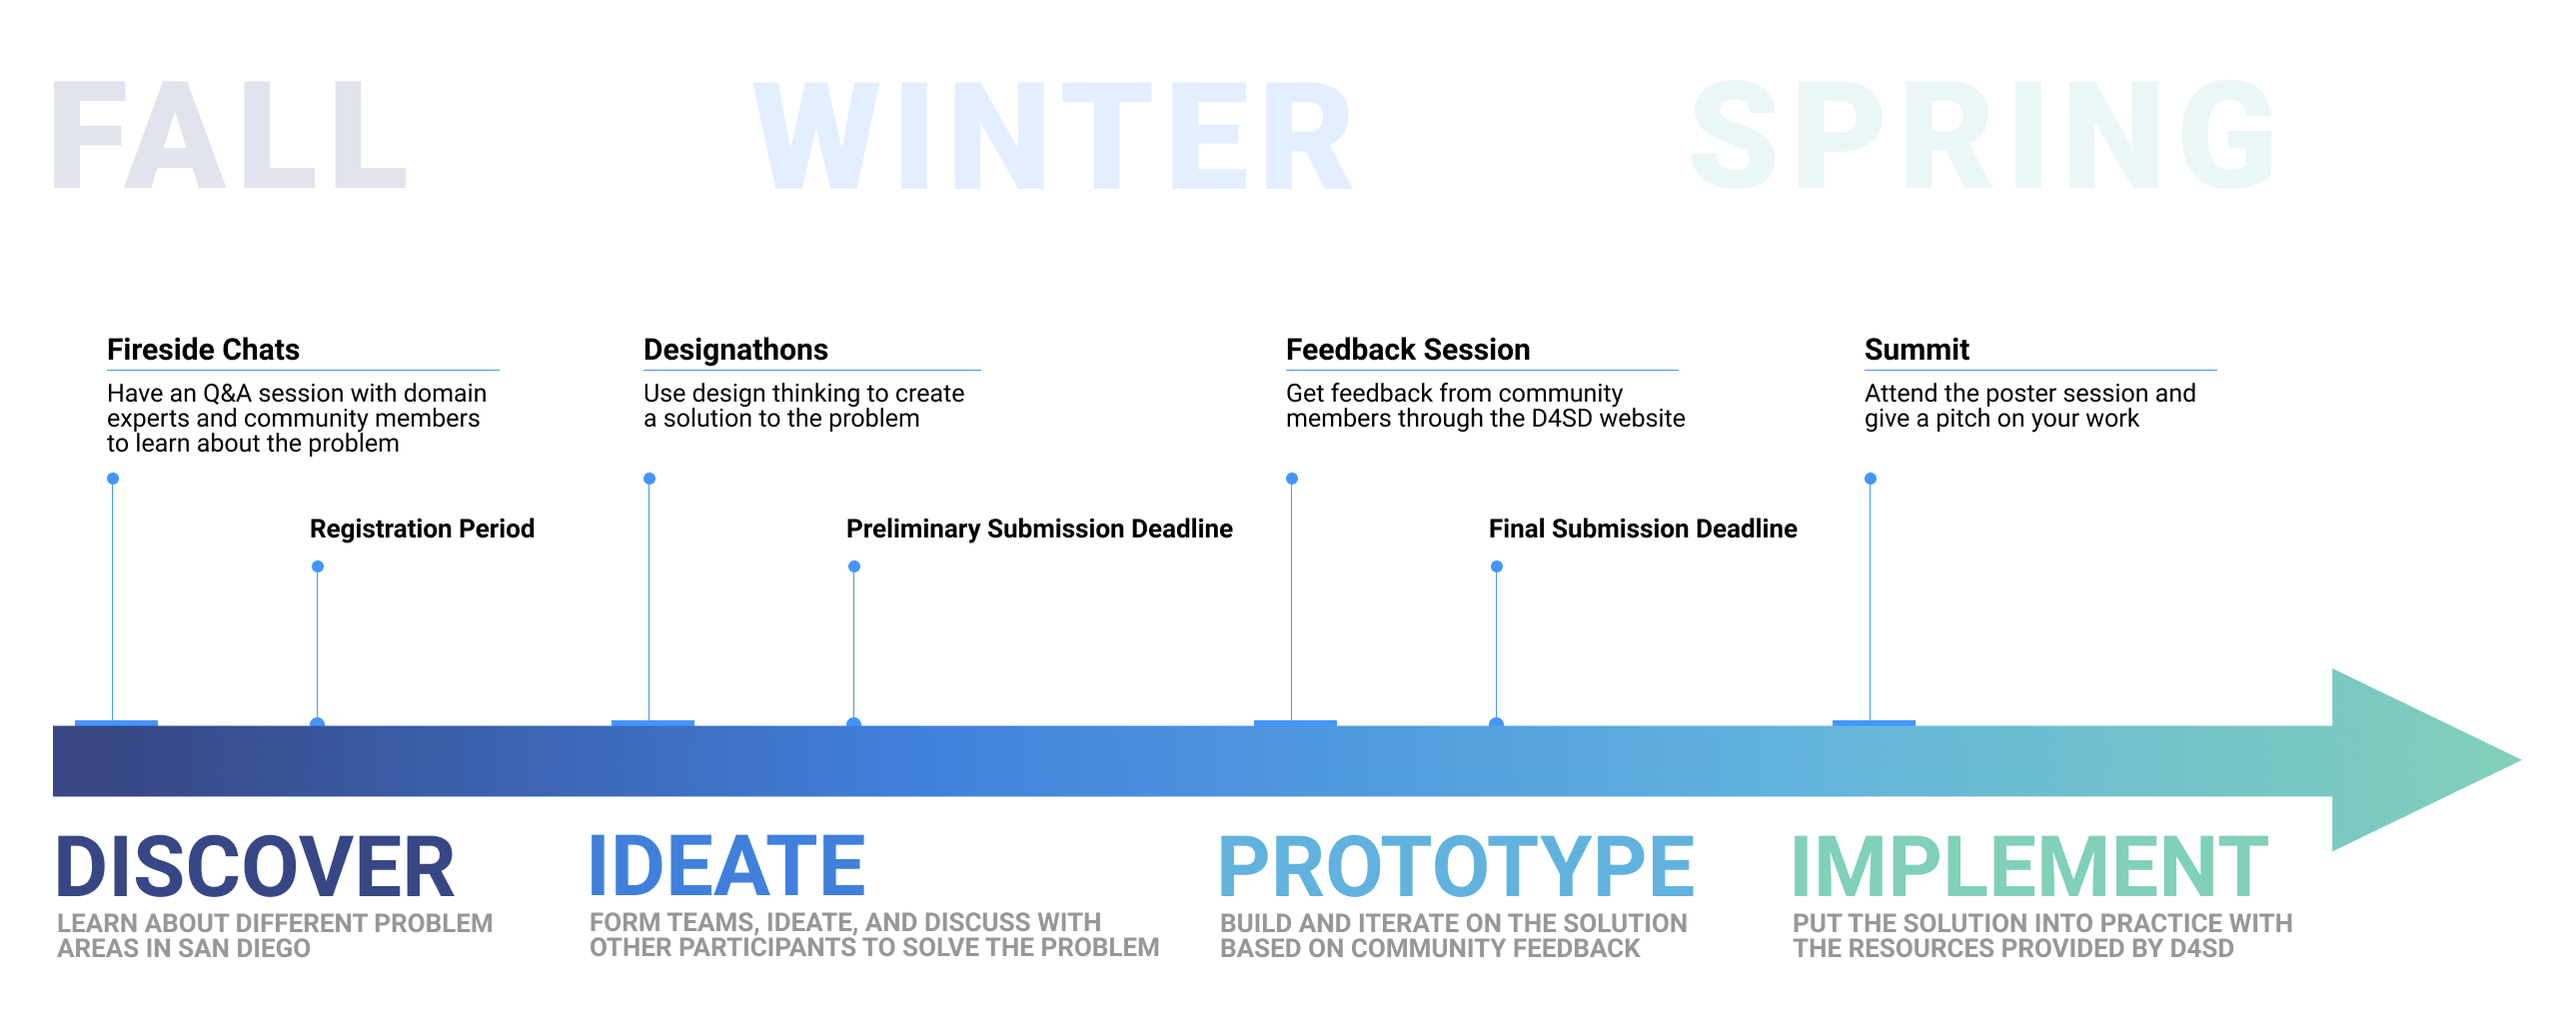
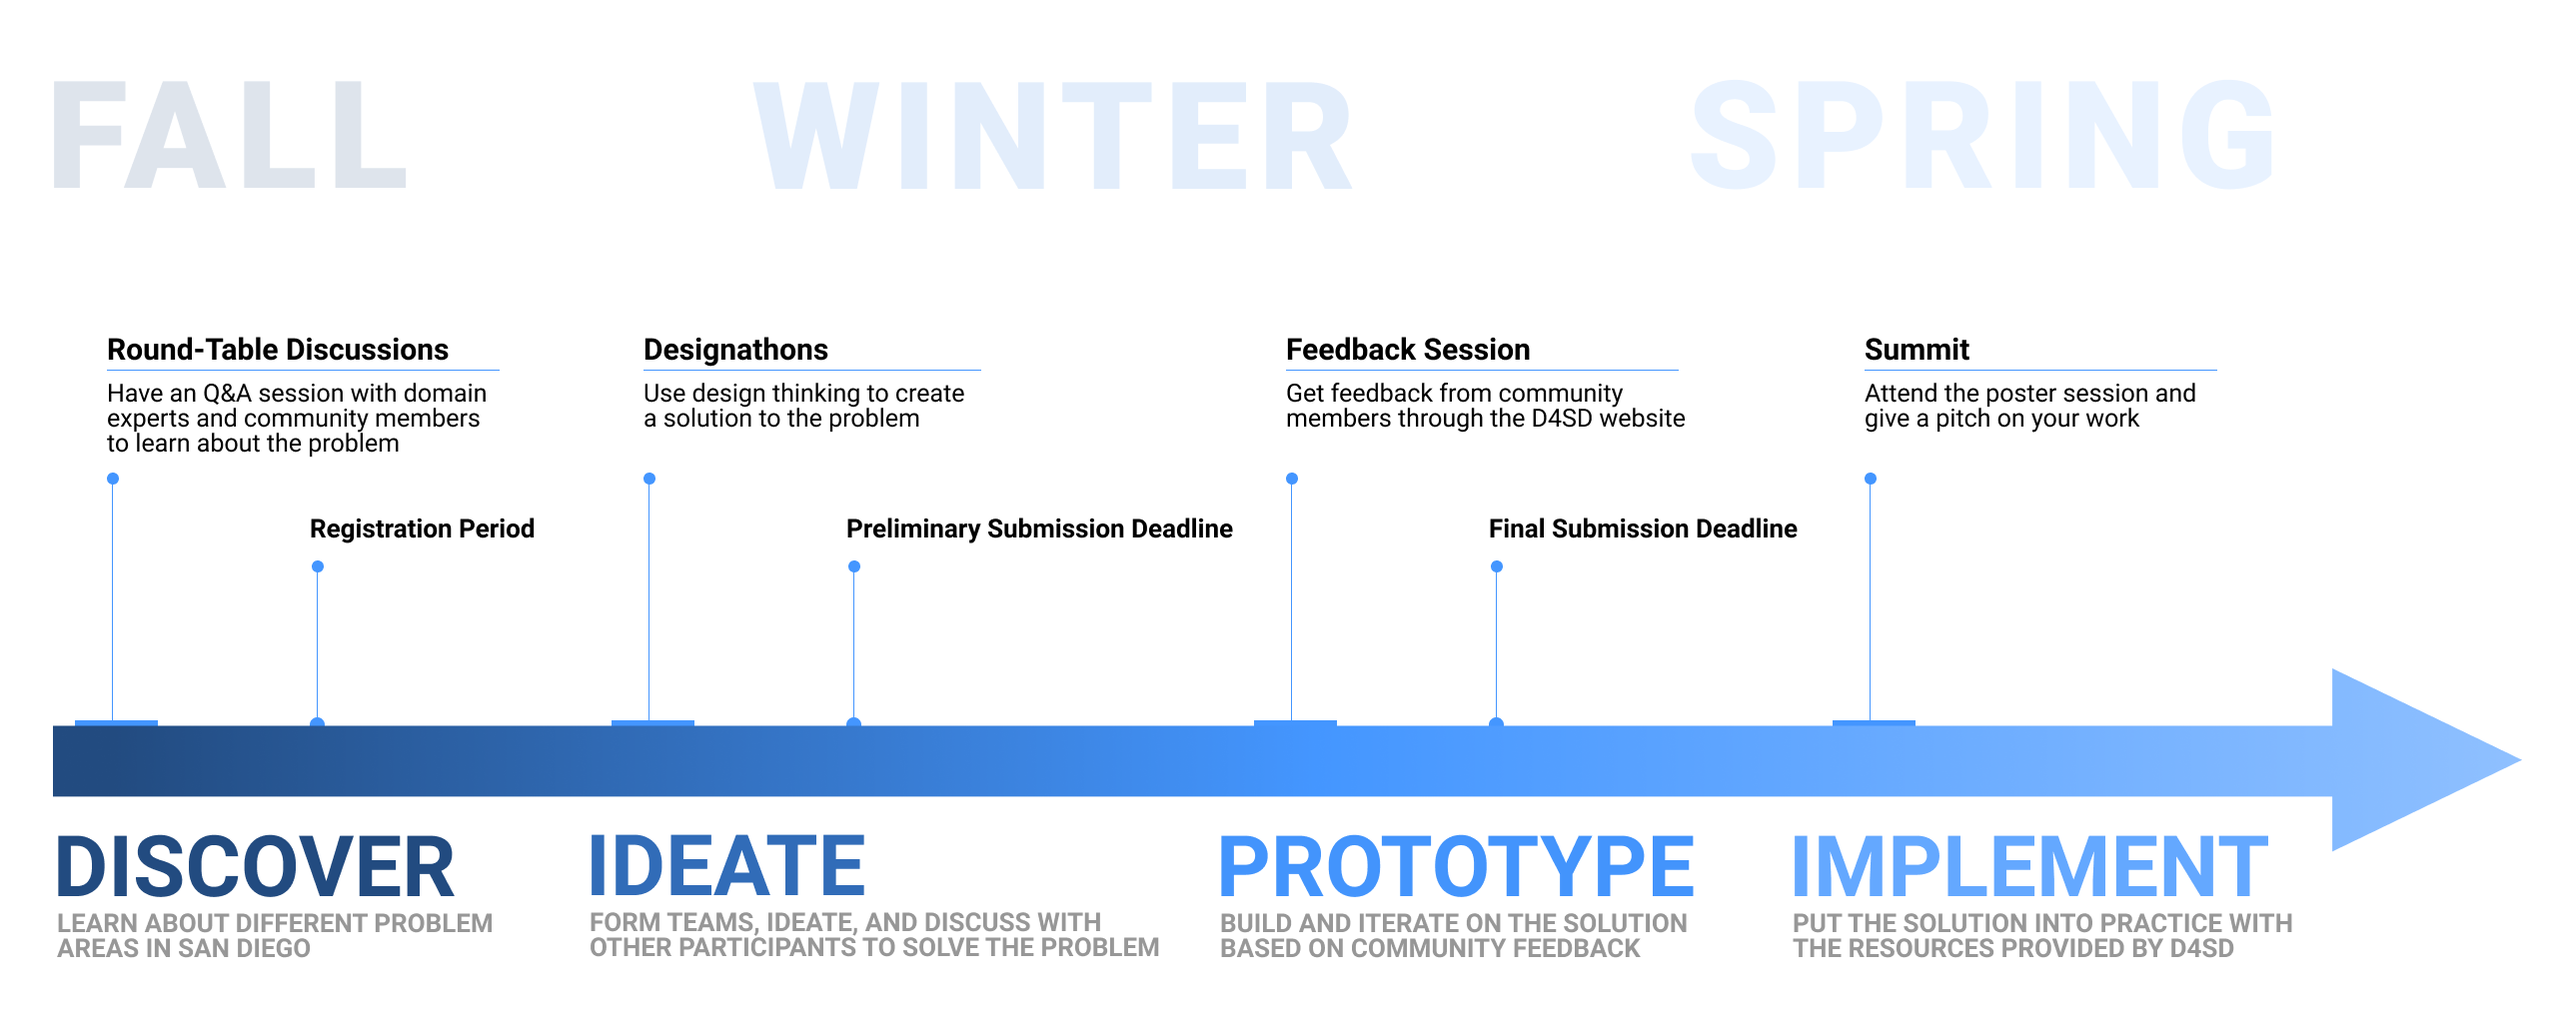
fixed timeline
changed "fireside chats" to "round table discussions", modified to fit color scheme

diff --git a/src/pages/content.js b/src/pages/content.js
@@ -26,8 +26,8 @@ export const homeContent = [
       src: home0,
       isAction: "true",
       title: "How can we make San Diego a more sustainable city?",
-      txt: "San Diego is an amazing place to live, but like many cities, faces a number of difficult questions around improving public access to transportation, affordable housing, and health services. Simultaneously, global temperatures continue to rise, adding another layer of complexity to these existing problems. As a result, the issue becomes how can we sustain these civic resources in the face of climate change? Design for San Diego (D4SD)is a city-wide initiative centered on using human-centered design to develop solutions to these vexing civic challenges.",
-      action: "Join our Mailing List!",
+      txt: "San Diego is an amazing place to live, but like many cities, faces a number of difficult questions around improving public access to transportation, affordable housing, and health services. Simultaneously, global temperatures continue to rise, adding another layer of complexity to these existing problems. As a result, the issue becomes how can we sustain these civic resources in the face of climate change? Design for San Diego (D4SD) is a city-wide initiative centered on using human-centered design to develop solutions to these vexing civic challenges.",
+      action: "Join our Mailing List",
       link: "http://eepurl.com/c2kFon",
       isAction2: "false",
       action2: "",
@@ -87,7 +87,7 @@ export const homeContent = [
       isAction: "true",
       title: "What steps can we take to make San Diego a more sustainable?",
       txt: "Design for San Diego (D4SD) is a civic initiative that brings together innovators, designers, mentors and community leaders to address our region’s most challenging issues through human-centered design.  D4SD 2020 will tackle issues related to climate change and public access to transportation, housing, and health care. Our aim is to provide both online and in-person spaces for the San Diego community to discuss these critical civic issues, to prototype solutions, and to find ways to kickstart the most viable solutions by identifying resources, investors, and community partners.",
-      action: "Explore your own Problem Space!",
+      action: "Explore your own Problem Space",
       link: "https://docs.google.com/forms/d/1LyUHMOctPmt9wL9FhtSyKi3ZR-43G172RuPq4aQC6Y0/edit",
       isAction2: "false",
       action2: "",

diff --git a/src/pages/About.js b/src/pages/About.js
@@ -18,8 +18,8 @@ import { FullImg, IconImg } from '../assets/css/images.js';
 import whitepaper from '../img/D4SD_2017_WhitePaper.pdf';
 import ppttimeline_horizontal from "../img/about_participants_horizontal.png";
 import commtimeline_horizontal from "../img/about_community_horizontal.png";
-import ppttimeline from "../img/about_participanttimeline.png";
-import commtimeline from "../img/about_communitytimeline.png";
+import ppttimeline_vertical from "../img/about_participants_vertical.png";
+import commtimeline_vertical from "../img/about_community_vertical.png";
 import { ReactComponent as Diagram } from "../img/about_diagram.svg";
 // import { ReactComponent as Timeline } from "../img/about_timeline.svg";
 
@@ -232,8 +232,8 @@ class About extends Component {
               <H2 center>{aboutContent.title4}</H2>
               <br/>
                 <H5>
-                  D4SD will have 4 major events: <b>Fireside Chats</b>, <b>Designathons</b>, <b>Feedback Session</b> and <b>Summit</b>.
-                  <br/><br/><b>Fireside chats</b> operate as a chance
+                  D4SD will have 4 major events: <b>Round Table Discussions</b>, <b>Designathons</b>, <b>Feedback Session</b> and <b>Summit</b>.
+                  <br/><br/><b>Round Table Discussions</b> operate as a chance
                   to gather knowledge and explore the problem with experts who have
                   an in-depth knowledge of the problem space. <b>Designathons</b> serve as
                   opportunities to explore and develop potential solutions where
@@ -255,8 +255,8 @@ class About extends Component {
                 <ToggleBtn onClick={this.community} active={!this.state.isInnovator}>Community members</ToggleBtn>
               </InnerFlexBox>
               <br/><br/><br/>
-              <ResponsiveImgVertical src={ppttimeline} isInnovator={this.state.isInnovator} />
-              <ResponsiveImgVertical src={commtimeline} isInnovator={!this.state.isInnovator} />
+              <ResponsiveImgVertical src={ppttimeline_vertical} isInnovator={this.state.isInnovator} />
+              <ResponsiveImgVertical src={commtimeline_vertical} isInnovator={!this.state.isInnovator} />
               <ResponsiveImgHorizontal src={ppttimeline_horizontal} isInnovator={this.state.isInnovator} />
               <ResponsiveImgHorizontal src={commtimeline_horizontal} isInnovator={!this.state.isInnovator} />
             </InnerContainer>
